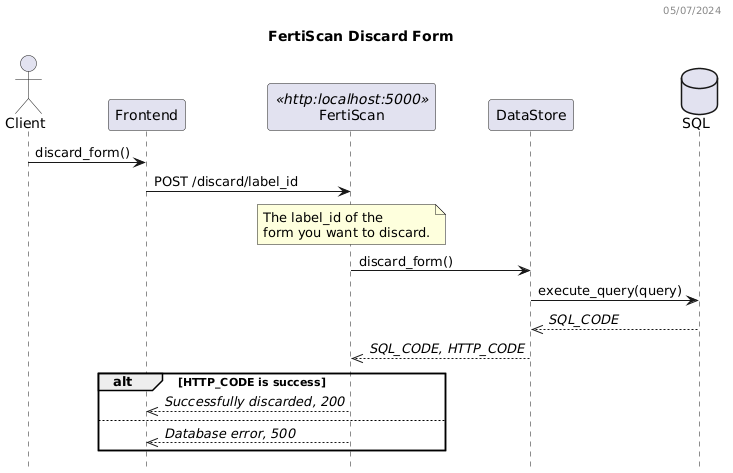
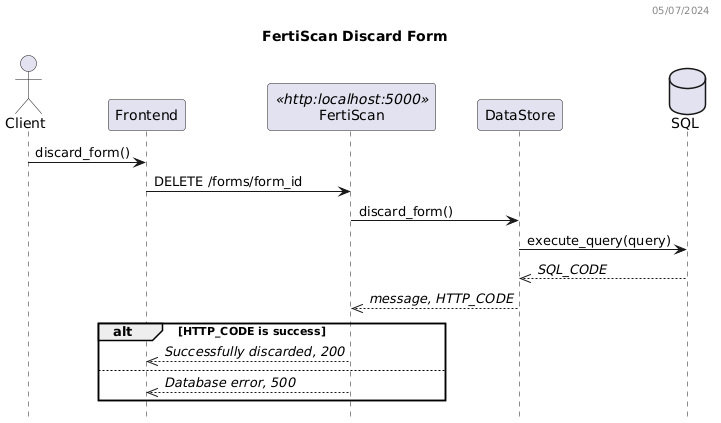
refactor: form API
* remove /submit and /discard in favor of CRUD like API.
* use flask_httpauth for Basic auth

diff --git a/app.py b/app.py
@@ -1,9 +1,11 @@
 import os
 import json
 import logging
+import random
+
 from http import HTTPStatus
 from dotenv import load_dotenv
-from auth import Token
+from flask_httpauth import HTTPBasicAuth
 from backend.form import FertiliserForm
 from azure.core.exceptions import HttpResponseError
 from werkzeug.utils import secure_filename
@@ -40,6 +42,8 @@ app.config['UPLOAD_FOLDER'] = UPLOAD_FOLDER
 cors = CORS(app, resources={"*", FRONTEND_URL})
 app.config['CORS_HEADERS'] = 'Content-Type'
 
+auth = HTTPBasicAuth()
+
 # Configuration for Azure Form Recognizer
 API_ENDPOINT = os.getenv('AZURE_API_ENDPOINT')
 API_KEY = os.getenv('AZURE_API_KEY')
@@ -55,38 +59,25 @@ language_model = GPT(api_endpoint=OPENAI_API_ENDPOINT, api_key=OPENAI_API_KEY, d
 def main_page():
     return render_template('index.html')
 
-@app.route('/submit', methods=['POST'])
-def submit():
-    # Extract Authorization header
-    auth_header = request.headers.get('Authorization')
-    try:
-        token = Token(auth_header)
-    except Exception as err:
-        logger.error(f"json_parse: {err}")
-        return jsonify(error=str(err)), HTTPStatus.BAD_REQUEST
+@auth.verify_password
+def verify_password(user_id, password):
+    return user_id
 
-    # Extract user_id from Authorization header
-    user_id = token.user_id  # Assumes format 'Basic user_id'
+@app.route('/forms', methods=['POST'])
+@auth.login_required
+def create_form():
+    form_id = random.randint(0, 2**32 - 1)
+    return jsonify({"message": "Form created successfully", "form_id": form_id}), HTTPStatus.CREATED
 
-    # Extract Content-Type header
-    content_type = request.headers.get('Content-Type')
-    if content_type != 'application/json':
-        return "Content-Type must be application/json", 400
+@app.route('/forms/<int:form_id>', methods=['PUT'])
+@auth.login_required
+def update_form(form_id):
+    return jsonify({"message": "Form updated successfully"}), HTTPStatus.OK
 
-    # Parse JSON body
-    data = request.json
-
-    # Branch based on 'confirm' value
-    if data.confirm:
-        # Perform actions for the final form.
-        return jsonify({"message": "Confirmed", "user_id": user_id, "action": "confirm"}), HTTPStatus.SERVICE_UNAVAILABLE
-    else:
-        # Perform actions for a transient form.
-        return jsonify({"message": "Not confirmed", "user_id": user_id, "action": "not_confirm"}), HTTPStatus.SERVICE_UNAVAILABLE
-
-@app.route('/discard/<label_id>', methods=['POST'])
-def discard_label(label_id):
-    return "Unimplemented!", HTTPStatus.SERVICE_UNAVAILABLE
+@app.route('/forms/<int:form_id>', methods=['DELETE'])
+@auth.login_required
+def discard_form(form_id):
+    return "Form discarded successfully", HTTPStatus.OK
 
 @app.route('/analyze', methods=['POST'])
 def analyze_document():
@@ -96,10 +87,6 @@ def analyze_document():
         if not files:
             raise ValueError("No files provided for analysis")
 
-        # The authorization scheme is still unsure.
-        auth_header = request.headers.get("Authorization")
-        Token(auth_header) if request.authorization else Token()
-        
         # Initialize the storage for the user
         label_storage = LabelStorage()
 

diff --git a/README.md b/README.md
@@ -84,12 +84,16 @@ FRONTEND_URL=http://url.to_frontend/
 
 - `POST /analyze`: Upload images for analysis and get the results as a JSON form.
 
-![analysis](./out/docs/analyze_dss/Analyze%20DSS.png)
+![create](./out/docs/analyze_dss/Analyze%20DSS.png)
 
-- `POST /submit`: Send the latest state of a form to the database.
+- `POST /forms`: Create a new form attributed the user to the database.
+
+![submit](./out/docs/create_dss/FertiScan%20Sequence%20Diagram.png)
+
+- `PUT /forms`: Send the latest state of a form to the database.
 
 ![submit](./out/docs/submit_dss/FertiScan%20Sequence%20Diagram.png)
 
-- `POST /discard`: Remove all transient states of a form.
+- `DELETE /forms`: Remove all transient states of a form.
 
 ![discard](./out/docs/discard_dss/FertiScan%20Sequence%20Diagram.png)
